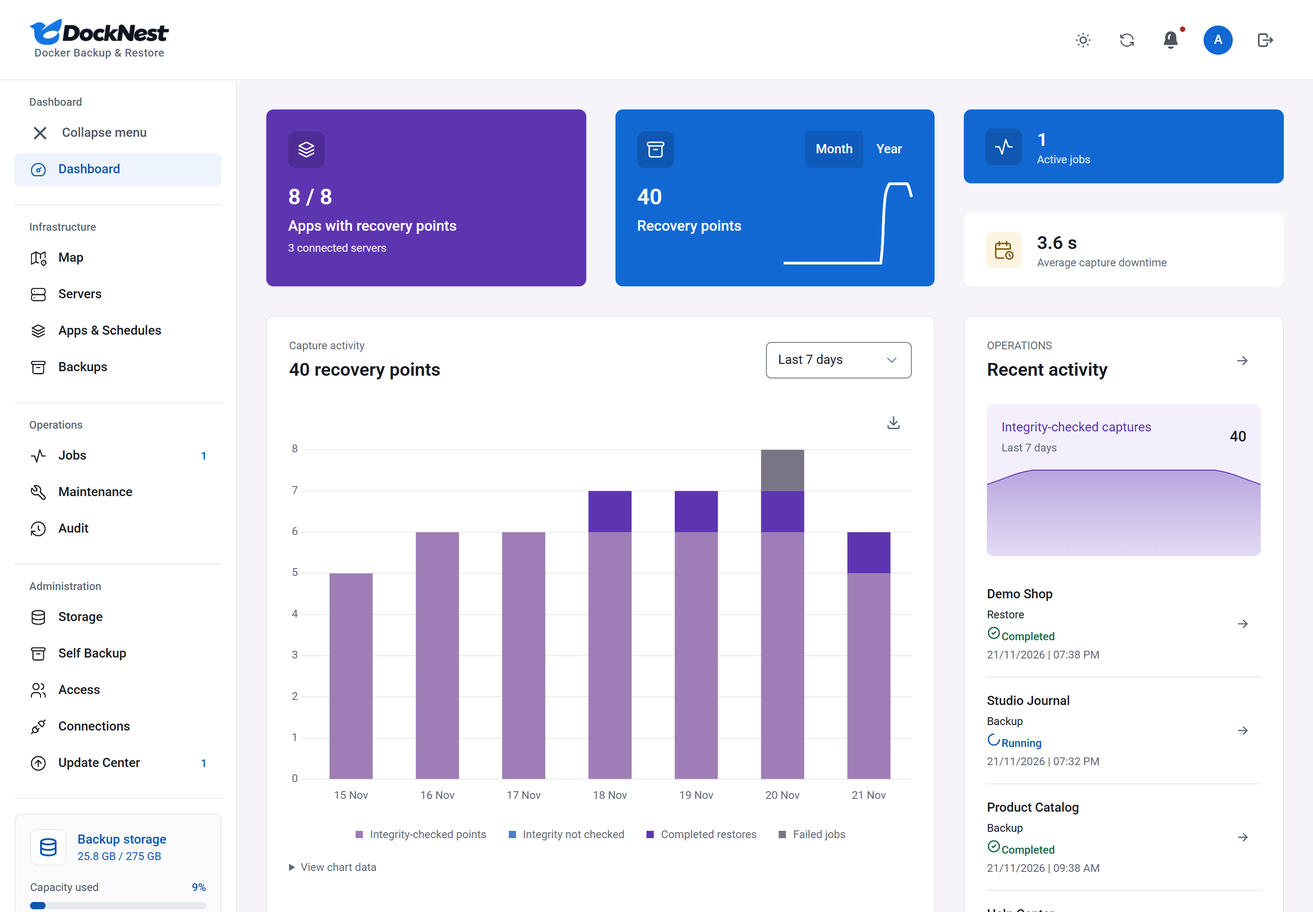
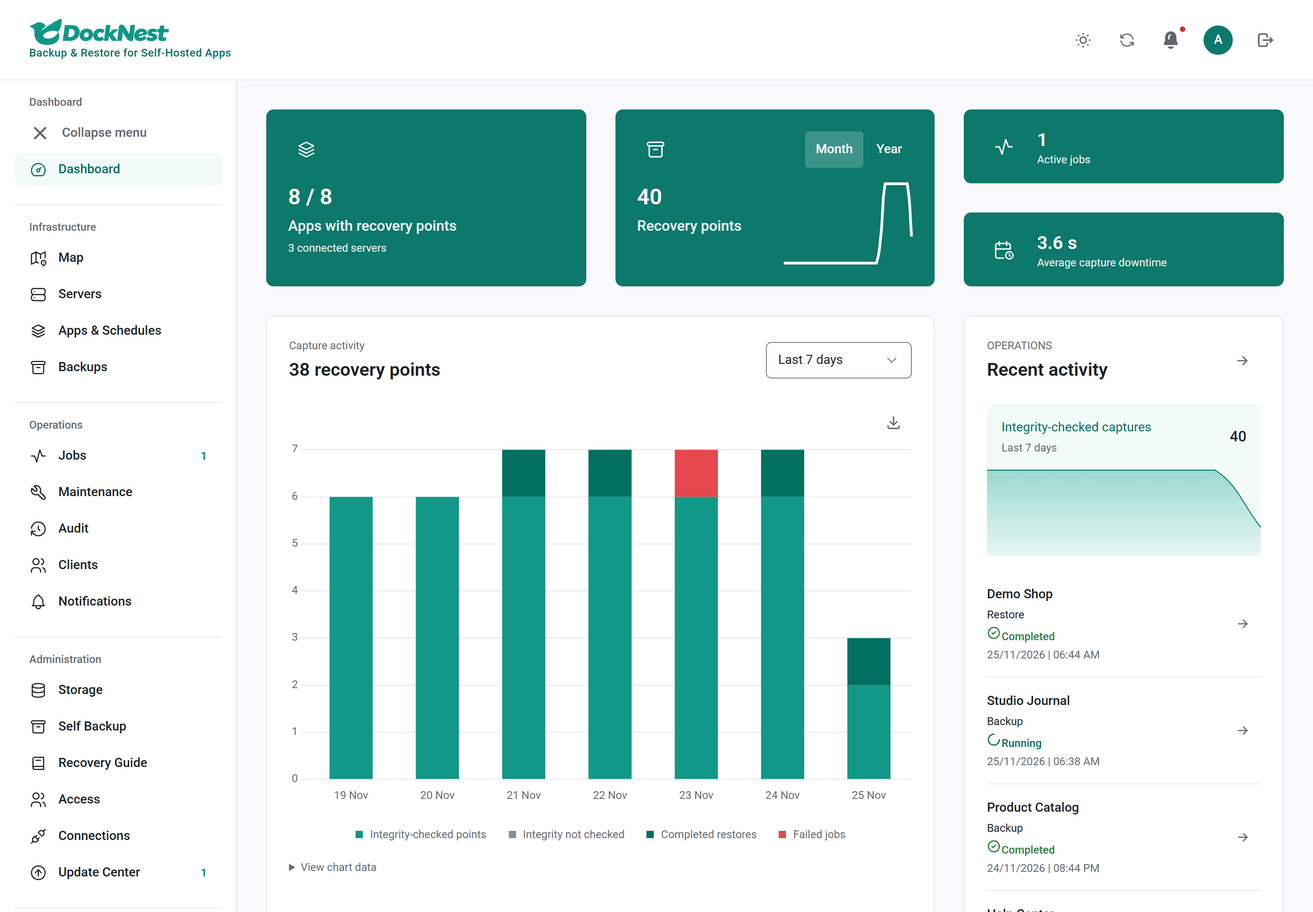
chore: prepare 3.0.0 (version, changelog, release notes, README, screenshots)

diff --git a/CHANGELOG.md b/CHANGELOG.md
@@ -2,114 +2,54 @@
 
 All notable changes to DockNest are documented here. The format follows [Keep a Changelog](https://keepachangelog.com/en/1.1.0/), and DockNest uses [Semantic Versioning](https://semver.org/spec/v2.0.0.html). [docs/upgrading.md](docs/upgrading.md) describes what stays stable within a major version and the deprecation policy. Detailed notes for each release live in [docs/releases](docs/releases).
 
-## [Unreleased]
+## [3.0.0] - Unreleased
 
-Draft for 3.0.0, not released yet. Upgrading: [docs/upgrading.md](docs/upgrading.md#upgrading-to-300).
+Upgrading from 2.16.x: [docs/upgrading.md](docs/upgrading.md#upgrading-to-300). Backups of Podman and rootless apps use backup format 3, which 2.16 cannot restore.
 
-### Fixed
+### New
 
-- Cloud drives: the Google Drive, OneDrive and Dropbox sign-in link now appears, drives can connect over HTTPS, the connected account is shown masked, and a certificate problem is reported as such instead of "could not be reached".
-- OneDrive: the list of drives after sign-in is no longer empty, so OneDrive can be connected from the dashboard. After a revoked sign-in, the first test now says OneDrive needs you to sign in again.
-- Cloud drives: the sign-in address from Microsoft and Dropbox (`localhost:53682`) is accepted, personal Microsoft account codes are accepted, Google Drive sign-in asks only for access to files DockNest creates, and the account name shows after Reconnect.
-- Cloud drives: the account name now shows on every drive (and fills in for existing ones after a Test). Reconnecting a Google Drive with a different Google app asks you to confirm first, because earlier backups would no longer be visible; a backup that Google no longer shows is reported as not visible, not as damaged.
-- Google Drive: the root folder is remembered, so tests and backups make fewer calls. A slow test no longer fails the page: it shows "Still checking" and finishes in the background. When Google limits the shared sign-in app, DockNest says so and recommends your own app ID.
+- Recovery time: how long each app took to come back in its newest passed restore test, on the dashboard, the Map and Restore tests. Existing tests already count.
+- Client reports: a Clients page; group apps per client and make a monthly PDF of backups, restore tests, recovery time, certificate, hardening grade and domain checks, downloaded or emailed to up to 3 people. Never shows server addresses, logins or paths. See [client reports](docs/client-reports.md).
+- Cloud drives as backup storage: Google Drive, OneDrive, Dropbox, WebDAV, SMB shares and a mounted local folder, with Reconnect and an alert when a sign-in expires. See [cloud drives](docs/cloud-drives.md).
+- NAS servers: TrueNAS SCALE, as root or a non-root SSH user with passwordless sudo, with a sealed helper container when the NAS has no Python. Unraid and Synology are early access under Settings (off by default); until then they connect as normal Linux servers with Docker. See [NAS servers](docs/nas-servers.md).
+- Podman and rootless Docker: servers list their engines, Discover groups apps by engine, and such apps can be backed up, restored and restore-tested in the same kind of engine. Not yet: systemd-managed (quadlet) apps, native databases, several containers in one restore, incremental backups and moves between engines.
+- Notification center: a bell and a Notifications page with folders, filters, Archive and toasts for new problems.
+- New look: slate neutrals and a teal accent, with an accent colour choice (Teal, Blue, Indigo, Orange, Pink) under Settings > Appearance. Apps (was Sites) and Self Backup are the new names; nothing to change.
+- Recovery Guide: numbered steps and exact commands to bring every app back on a new server, as a PDF (Hebrew included), with expected recovery time per app. A login-free copy is saved next to the recovery kit after every Self Backup.
+- Recovery kit: checked after every Self Backup and on demand (alert on failure); optional split so K of N trusted people can open it together.
+- Keys safe: finds app encryption keys (Laravel, n8n, Rails, authentik, Paperless-ngx, Outline, Gitea, Nextcloud, Vaultwarden and others) and checks they are inside the last backup. Key values never leave the server.
+- Backup coverage and linked apps: every container and volume on a server and whether an app backs it up, plus which apps depend on each other.
+- Domain checks: follow each domain through DNS, proxy (nginx, Nginx Proxy Manager, Caddy, Traefik), app and certificate; shown on the Map. Domains move with their app.
+- Restore check also lists cron jobs, timers, networks, volumes, secrets and certificates a restore on a new server would miss. See [restore check](docs/restore-check.md).
+- Redis, Valkey and MongoDB (6.0 to 8.0) apps are detected and backed up; online dumps for PostgreSQL, MySQL, MariaDB, Redis and Valkey (opt-in).
+- Portainer and Dockge stacks are found when adding an app; apps started with plain `docker run` get a Compose preview and a readable Compose file inside the backup.
+- Alerts: "Backup missed", "Configuration changed", "Client report failed" and a cloud-drive Reconnect alert.
+- Append-only SFTP storage is detected, and SFTP capacity fills in automatically.
+- Restore tests can read the backup copy on your second storage.
 
-### Added
+### Improved
 
-- New look: slate neutrals and a teal accent. Settings > Appearance has an accent colour choice (Teal by default, Blue, Indigo, Orange or Pink), saved per account in this browser. The logo, buttons, links and charts follow it. Switching accent or light/dark fades smoothly (about 0.2 s, colours only, instant with reduced motion). The dashboard tiles are solid accent cards. Status colours stay green, amber and red, and text on buttons meets contrast in every accent and in light and dark.
-- Unraid and Synology support are hidden until they can be tested on real hardware: such a server connects as a normal Linux server with Docker, with one plain info line. 3.0.0 NAS support is TrueNAS SCALE. Early-access "Unraid support" and "Synology support" switches (off by default, with a Beta tag) are under Settings; problem reports from those servers carry a "unraid" or "synology" tag.
-
-**Recovery**
-- Recovery time: DockNest now measures how long each app takes to come back, from its newest passed restore test (get the backup, restore data, start and check). Existing restore tests already count, so there is a number on day one. It shows under the last test on the dashboard ("Back in about 12 min, proven 3 days ago"), on the app panel in the Map with its three parts, and at the top of Restore tests with the recent tests. An old test is greyed and says "not recent"; after the backups grow a note says the number may be low.
-- Redis and Valkey: apps using them are detected and shown in the Databases list with what they keep (saved to disk or cache only). A cache-only server is no longer an error, and with online dumps on, a server that saves to disk keeps running while a consistent snapshot is taken and restored.
-- Recovery Guide: plain, numbered steps to bring every app back on a new server, made from what DockNest knows now, with the exact commands for each app. Download it as a PDF (Hebrew included); addresses and storage logins are added only if you choose, and logins need you to confirm again. A copy without any login is saved next to the recovery kit after every Self Backup, and an optional alert tells you when the guide is out of date.
-- Client reports: a Clients page in the menu. Group apps into clients and make a monthly PDF per client, on demand or emailed on day 1 to up to 3 recipients through your email Connection. It shows backups, restore tests, recovery time, certificate, hardening grade and domain checks, and never a server address, login or path. A failed send raises the new alert "Client report failed". See [client reports](docs/client-reports.md).
-- After every Self Backup, and when you ask, DockNest opens the newest recovery kit with the passphrase it keeps and checks that it is complete and holds this DockNest's key. If the check fails, you get an alert.
-- Optional emergency kit split: K of N trusted people can open your kit together with their 33-word parts, using an offline tool, while fewer of them learn nothing. Off by default; one passphrase stays the default. Every split alerts all your channels. Splitting again, or going back to one passphrase, asks for a new recovery passphrase, so earlier holders cannot open new kits.
-- Keys safe: DockNest finds the encryption keys of apps such as Laravel, n8n, Rails, authentik, Paperless-ngx, Outline, Gitea, Nextcloud and Vaultwarden, and checks that each key is inside the last backup. A key kept in a file the app does not back up is shown as missing, with the file. Key values never leave the server.
-- Restore tests check that the restored app has the same keys as the backup.
-- Check readiness now also lists what a restore on a new server would miss: cron jobs and systemd timers that use the app's folders or containers, Docker networks and volumes the app does not create itself, Compose secrets, configs and environment files outside its folder, and its HTTPS certificates. Commands and values from these files are never shown. You can ignore a finding or keep a note with it. See [restore check](docs/restore-check.md).
-
-**Apps and servers**
-- Podman and rootless Docker groundwork: the server helper now has one place that decides how DockNest talks to the container engine, with strict checks on users, ID ranges and systemd units. Nothing changes for existing apps, which keep using rootful Docker; Podman and rootless apps follow in later 3.0.0 changes.
-- NAS servers (backend): connect a Unraid or TrueNAS system with a non-root SSH user that has passwordless sudo, or with root. Other servers still need root. The helper works in the NAS's persistent working folder and reads free space there, not from memory storage. Connect answers say which identity is used and the one fix when sudo asks for a password. Release note: Connecting a NAS no longer needs root SSH.
-- Podman and rootless Docker discovery: Test connection now lists the container engines a server runs (Docker, Podman, and rootless Docker or Podman for users with their own container storage), and Discover tags each container with its engine. An app can be saved with its engine only when the server reported it. Backups and restores of such apps are refused with a plain message until they arrive in a later 3.0.0 change; existing apps are unchanged.
-- Podman and rootless Docker backups: an app that runs in Podman or rootless Docker can be backed up and restored into the same kind of engine, as a new isolated copy. The backup records the container engine and the user ID ranges, and a restore for another user translates every file owner, refusing the whole restore if one cannot be mapped. A backup of such an app cannot be opened by older releases. Not yet supported: apps managed by systemd units (quadlets), native database engines, several containers in one restore, incremental backups, restore tests and moves.
-- Restore tests for Podman and rootless Docker apps: the test runs in the same kind of engine, as one isolated container with the usual memory and CPU limits, and only on a server where those limits can be set for that user. The copy and its data folder are always removed, also by the safety reaper and when a restore fails. Not yet: internet tests, apps with several containers, the internal web check, and a custom seccomp profile on rootless.
-- Podman and rootless Docker in the app: Discover & add an app groups what it finds by engine, says "One app, one engine" when a Compose project is split across engines, and keeps the engine of the app you save. Apps show an Engine row, restore tests explain in one sentence why a server cannot test them, Self-heal says it is not available for them yet, and a server lists the engines it runs (including a server with Podman and no Docker).
-- Podman and rootless Docker moves and cleanup: the move check now reads the rules for these apps (Docker and Podman cannot be moved into each other, the target must run the engine, a rootless user cannot use ports below the system limit, a missing linger setting is flagged, file owners are translated) and still blocks the move itself for now. Server cleanup lists DockNest's restore copies in these engines as kept and offers the data folder of a failed rootless restore for removal.
-- Podman and rootless Docker image copies: backups and restores of these apps move image archives through the engine's own input and output, so a rootless user's engine never needs access to DockNest's private folders.
-- NAS apps (backend): on Unraid, Synology and TrueNAS, scanning a server now tells which apps the NAS itself manages (Unraid templates, Container Manager projects, TrueNAS apps), read-only. An Unraid app's template is saved with its backup and can be put back, never over a different file. TrueNAS before 24.10 is refused with a clear message. Release note: DockNest recognises apps managed by Unraid, Synology and TrueNAS.
-- Unraid restore (backend): after an app is restored, its saved template is put back so the Unraid Docker page keeps managing it, without ever replacing a different file. Compose Manager projects are listed by name. TrueNAS version files in the common formats are recognised. Release note: Restoring an Unraid app also restores its Docker template.
-- NAS helper runtime (backend): a NAS with no usable Python can now run DockNest's helper in a small container image that ships inside the DockNest image. DockNest checks its checksum, loads it over SSH, and runs it only by its pinned ID with no network and only the folders the call needs. Release note: NAS systems without Python no longer need Python installed to connect.
-- NAS helper runtime hardening: folders are checked where they point and never follow a link into a system folder, the image is built in a job with no publish rights and verified again before release, and its package versions are pinned. Release note: NAS helper runtime checks are stricter.
-- NAS backups, restores and restore tests now work for a sudo user: packages are moved through the helper under sudo instead of SFTP, and the root-only staging folders are not opened up. Release note: Backups, restores and restore tests work on a NAS with a sudo user.
-- NAS screens: the server card and Map panel show the NAS name and a readiness list (helper runtime, staging folder, Docker, key warning with its fix). Discover groups apps by the manager the NAS uses, with the Unraid WebUI shown as text. The connect wizard explains Unraid, Synology and TrueNAS, accepts a passwordless-sudo user and, without Python, a pasted host key fingerprint. Release note: Unraid, Synology and TrueNAS systems get their own screens and setup help.
-- Recovery Guide: a new column, Expected time to recover, shows how long each app took in its newest passed restore test. Release note: The Recovery Guide now says how long each app should take to restore.
-- Backup coverage on the Apps page and the Map: every container and volume on a server, and whether an app backs it up, its first backup is pending, or nothing does. Add an app for what is missing in one click, or skip what you leave out on purpose, with a note. It reads Docker only when you open it or press Scan again.
-- Linked apps: scanning a server now finds which apps depend on each other (a shared database, network or volume, or a container linked to another app's), and which containers they use that no app backs up. Read-only; nothing is changed.
-- Domain checks: DockNest follows each domain of your apps through DNS, the proxy (nginx, Nginx Proxy Manager, Caddy or Traefik), the app and its certificate, and says which step is broken and why. Checks run when you ask and after scans, readiness checks and backups, never on a timer. See [domains](docs/domains.md).
-- A move preview lists every domain that stops working until DNS points to the new server, and separately the domains another server's proxy sends to the app.
-- Domains on the Map: a Domains column shows where each domain really points, with the broken step and what to do about it. Each app panel lists its domains. Checks run only when you ask.
-- Adding an app started with plain `docker run` shows how DockNest will recreate it, as a read-only Compose preview, and suggests containers that share a network as one app.
-- A backup of an app started with plain `docker run` now also holds a readable Compose file and env files that recreate it with the same settings, so you can bring it back without DockNest.
-- Back up MongoDB apps with a verified clean stop (MongoDB 6.0, 7.0 and 8.0, standalone servers).
-- Adding an app finds stacks that Portainer or Dockge manage, fills in their Compose file from the manager's stacks folder and shows the manager on the app card. DockNest only reads it and never changes Portainer or Dockge.
-- NAS support, first part (no screens yet): DockNest recognizes Unraid, Synology and TrueNAS servers, can connect as a non-root user with passwordless sudo on them, and can run its helper in a sealed container when the NAS has no Python. Servers that are not NAS systems are unchanged. See [NAS servers](docs/nas-servers.md).
-
-**Storage and backups**
-- Cloud drives as backup storage: connect Google Drive, OneDrive, Dropbox, WebDAV (Nextcloud, ownCloud) and SMB shares through a bundled, checksum-pinned rclone. Sign in by pasting the address your browser ends on, or a token from rclone on your own computer; tokens are sealed with the master key and never shown. When a drive asks you to sign in again, backups to it stop with a plain message, one alert is sent, and Reconnect replaces only the token. Not append-only; deleted files go to the provider's trash. See [cloud drives](docs/cloud-drives.md).
-- Online database dumps (opt-in per app, a switch under Advanced backup settings; each database says whether it can stay running): PostgreSQL, MySQL and MariaDB keep running while a consistent dump is taken, and a restore loads it into a fresh database. Anything a dump cannot cover safely keeps the stopped copy, with the reason. See [online dumps](docs/online-dumps.md).
-- Append-only SFTP storage: DockNest detects an SFTP account that refuses deletes and overwrites, keeps adding backups there, and leaves old ones for the storage server to expire. While the server enforces it, ransomware that reaches DockNest cannot delete or overwrite stored backups. See [storage backends](docs/storage-backends.md#append-only-sftp-since-300).
-- Adding an SFTP storage destination fills the Capacity field with the size the server reports (editable, never blocks adding). See [storage backends](docs/storage-backends.md).
-
-**Sign-in**
-- Sign-in: password dots and two-factor code digits animate as you type; the focus border is gone. Off under reduced motion.
-
-**Alerts**
-- Notification center: a bell with an unread count, the newest notifications and your running jobs, and a Notifications page under Operations with folders (All, Needs action, Backups & restores, Storage, System, Archived), filters and one-click Mark read, Archive and Open. It lists the same events your alert channels get, plus restores, restore tests that passed and recovery times that went old, for every administrator, kept for 90 days. A repeat of the same event counts up instead of piling up. Short messages now appear as toasts: errors stay until you close them, success clears itself after 5 seconds.
-- Missed backup alert: when a scheduled backup could not start on time (DockNest was down, or the app stayed busy), your alert lines for failed backups get one "Backup missed" message. The run still happens as soon as it can. See [alerts](docs/alerts.md#missed-scheduled-backups).
-- A new alert, "Configuration changed", tells you once when an app's Compose or env files change outside Safe Edit. Administrators can mark the current files as known-good.
-- Keys safe on screen: a padlock on each app in the Map and a Keys line on each app card (found in the last backup, missing, or changed), a Keys section in the app's Map panel with each key's name, place and short fingerprint (never the key), "Add file" for a key in a file the app does not back up, and "Mark as known-good" for administrators after a sign-in check. Self Backup shows a Recovery kit check card with its last result, and a move review lists owner, file-mode and target-folder findings as separate notes.
-- The recovery kit check on Self Backup says which kit it opened ("Kit from 18 Nov 03:10") whenever it found one.
-- Before a move, DockNest checks the new server for owner and permission problems: remapped Docker user IDs, files whose setuid, ACL or extended attributes the new file system would drop, and folders on read-only, noexec, nosuid or root-squashed mounts. A check that cannot run stops the move with a plain message instead of passing quietly. What the checks find about owners and permissions is a warning: you tick "I checked these" before the move can start.
-
-### Changed
-- Sign-in hardening: a new system password (first setup, or when you change it) must be 12 to 128 characters instead of 4 to 16. Existing passwords keep working; nobody is locked out. After 20 failed sign-ins from anyone within 15 minutes, sign-in pauses for a short, growing time (30 seconds up to 15 minutes) with a plain message, then continues by itself. Release note: New system passwords need 12 to 128 characters, and repeated failed sign-ins now pause sign-in briefly.
-
-- Secondary actions everywhere are quiet text links; each screen and dialog has one clear main button.
-- Map: lines curve smoothly between connection points, like a workflow canvas.
-- The app and server details panels on the Map have a new layout: a status line under the name, one label and value list, thin lines between sections, and Self-heal, Edit history and Add an app found here together under Tools. Move to and Edit are plain underlined links; Open site stays the one filled button.
-- Secondary actions in the Map panels, Keys, Recovery Guide and domain checks are plain underlined links instead of outlined buttons; main actions stay filled buttons.
-- A new look across the dashboard: consistent dialogs, tabs, notices, step-by-step flows, fields and buttons. Sign-in animates each password dot and 2FA digit as you type, with no focus border on those inputs. Off under reduced motion.
-- Cleaner lists: open details from the row, and find the extra actions in one menu on the Map, Apps, Servers, Storage and Backups.
-- DockNest's own backup is now called **Self Backup** in the menu, page, alerts and docs. Nothing changes in how it works, and your existing settings and backups are untouched.
-- Sites are now called Apps, because DockNest backs up any Docker app or stack, not only websites. The menu entry is now Apps & schedules. There is nothing to do: your data, links and bookmarks keep working.
-- Adding an app hides containers that are already backed up on that server, and DockNest refuses a duplicate. Moving an app is refused too when an app on the new server already backs up one of its containers.
-- A move no longer stops when an app's configuration files live outside the app folders, such as `/etc/cron.d`. It leaves them out, names them in the preview to put back by hand, and the backup's restore guide says where each one goes. A move still never writes into `/etc`.
+- One main button per screen, quiet text links for secondary actions, one actions menu per list row, consistent dialogs, tabs and fields.
+- The Map: curved lines, a domain tree, drag anywhere with positions remembered, Fit to screen keeps names readable, new details panels, a Keys padlock, and the storage an app really uses.
+- Adding an app hides containers that are already backed up and refuses duplicates.
+- A move no longer stops over configuration files outside the app folders; it names them to put back by hand. It also checks for owner and permission problems on the new server and lists domains that need new DNS.
+- A backup stopped by a changing folder names that folder.
+- Moving a `docker run` app keeps its hostname, limits, DNS, log settings and other options.
+- Google Drive makes fewer calls, and a slow test shows "Still checking" instead of failing the page.
 
 ### Fixed
 
-- A Podman or rootless app whose user has no container runtime folder (linger off, user logged out) now gets a plain message with the fix, instead of a bare engine error.
-- A server where Docker is installed but not running no longer fails a scan: the app list still shows the other engines, the scan names the stopped Docker engine, and the readiness check says "Docker is installed but not running". The TrueNAS-before-24.10 refusal no longer repeats its last sentence. Release note: A stopped Docker is reported plainly instead of failing the scan.
-- The Recovery Guide shows the whole install command instead of cutting it off.
-- The Map no longer leaves "Change cancelled" under the canvas; status messages disappear after a few seconds.
-- The move preview dialog no longer has an empty gap above its buttons.
-- Fit to screen on the Map keeps names readable and lets you pan a big map instead of shrinking it.
-- The Map shows the backup storage an app really uses: the app's own main destination, not always the default one.
-- The Recovery Guide says whether a restore test read the main backup or the off-site copy.
-- Moving an app started with plain `docker run` now keeps its hostname, TTY, memory, CPU and process limits, ulimits, log settings, DNS, shm size, sysctls, extra groups, `-P` and stop timeout. Settings DockNest cannot recreate (such as devices or GPUs) are named in the move preview.
-- A backup that stops because a folder changed while the app was paused now names that folder (for example a host timer that writes into it), instead of a general message.
-- On the Map, nodes you drag now go anywhere, also further left and up, instead of stopping at an invisible edge. Where you put them is kept the next time you open the Map; Tidy up arranges everything again.
-- Safe Edit: an invalid field keeps its red border when you hover it.
-- The Map shows `example.com` and `www.example.com` as one domain, with the www name inside it and one status for both.
-- On the Map, a subdomain hangs under its domain and only the domain connects to the server (subdomain, domain, server). A subdomain that runs on another server connects to its own server and says "part of" its domain.
-- Lines from domains end in one input dot on the server, like the output dot on its right, instead of an arrowhead each.
-- The Map opens whole and centred instead of at a cut-off corner.
-- The "+" next to an app on the Map opens the Add to the map panel instead of doing nothing.
-- A domain moves with its app on the Map: drag its dot onto another server to start the app's move, see it dashed at the new server while the move runs, and find it there afterwards. A domain with no app, or used by several apps, says so and moves nothing.
-- A static website that nginx serves from a folder is shown as a note with an "Add as app" link, not as a failed proxy.
-- The Recovery Guide PDF is denser (no half-empty pages), carries the DockNest mark and a credit with working links to GitHub and trydocknest.com.
+- Cloud drives: sign-in links appear, OneDrive lists its drives, the Microsoft and Dropbox `localhost:53682` address and personal Microsoft accounts are accepted, the account name shows (masked), and certificate problems are reported as such.
+- Reconnecting Google Drive with a different Google app asks first; a backup Google no longer shows is reported as not visible, not damaged.
+- A server where Docker is installed but stopped no longer fails a scan; Podman users without a runtime folder get a plain fix.
+- The Recovery Guide shows the whole install command and is denser; the Map no longer leaves stale messages; the move preview has no empty gap.
+- A static site that nginx serves from a folder shows an "Add as app" link instead of a failed proxy.
+
+### Security
+
+- A new system password must be 12 to 128 characters (existing passwords keep working). After 20 failed sign-ins from anyone within 15 minutes, sign-in pauses briefly.
+- NAS connections no longer need root SSH; the helper runtime image is pinned, checksum-verified and run with no network. Cloud-drive tools are checksum-pinned.
+- Google Drive sign-in asks only for access to files DockNest creates.
 
 ## [2.16.4] - 2026-11-14
 
@@ -677,7 +617,7 @@ Pre-release of 2.1.0, tagged `v2.1.0-rc.1`. The GitHub release for it has been r
 
 See [docs/releases/2026-10-17-v2.0.md](docs/releases/2026-10-17-v2.0.md) for the full notes.
 
-[Unreleased]: https://github.com/DahanItamar/DockNest/compare/v2.1.0...HEAD
+[3.0.0]: https://github.com/DahanItamar/DockNest/compare/v2.16.4...HEAD
 [2.1.0]: https://github.com/DahanItamar/DockNest/compare/v2.0.0...v2.1.0
 [2.1.0-rc.1]: https://github.com/DahanItamar/DockNest/compare/v2.0.0...v2.1.0-rc.1
 [2.0.0]: https://github.com/DahanItamar/DockNest/releases/tag/v2.0.0

diff --git a/README.md b/README.md
@@ -26,7 +26,7 @@ DockNest is a self-hosted web app. It connects to your Linux servers over SSH, b
 - Discovers the Docker projects and static nginx sites on each server you connect.
 - Backs up each app on its own schedule to encrypted SFTP or S3-compatible storage. Connect storage starts with a provider (own server or NAS, Hetzner, rsync.net, MinIO, Amazon S3, Cloudflare R2, Backblaze B2, Wasabi or another) and fills in its defaults.
 - Verifies recovery points and restores them to a separate copy. The live app is not overwritten.
-- New in 3.0.0: a notification center; measured recovery time per app; monthly client reports as a PDF, downloaded or emailed; cloud drives as storage (Google Drive, OneDrive, Dropbox, WebDAV, SMB, a local folder); NAS servers (TrueNAS SCALE; Unraid and Synology as early access in Settings); Podman and rootless Docker apps; a new look with a choice of accent colour (Settings > Appearance), with a smooth fade when you change it or switch light and dark.
+- New in 3.0.0: a notification center; measured recovery time per app; monthly client reports as a PDF, downloaded or emailed; cloud drives as storage (Google Drive, OneDrive, Dropbox, WebDAV, SMB, a local folder); NAS servers (TrueNAS SCALE; Unraid and Synology as early access in Settings); Podman and rootless Docker apps; security hardening (12 to 128 character system passwords, sign-in pause after repeated failures, checksum-pinned helper images); a new look with a choice of accent colour (Settings > Appearance), with a smooth fade when you change it or switch light and dark.
 - Shows live progress, the steps of each job and the reason when one fails.
 
 > [!NOTE]
@@ -223,9 +223,10 @@ scripts/upgrade.sh --dry-run    # show the plan only
 
 With the host updater installed, a command-line upgrade that cannot register the new version itself (for example a checkout not owned by root) ends by printing the `sudo scripts/install-updater.sh --repair` command to run.
 
-Upgrading from 2.16.x to 3.0.0 (the 3.0.0 development line) adds only compatible database tables (migration 27), so rolling back to 2.16.x works without restoring a snapshot; see [Upgrading to 3.0.0](docs/upgrading.md#upgrading-to-300). Worth knowing before you update:
+Upgrading from 2.16.x to 3.0.0 adds only compatible database tables (migrations 19 to 27), so rolling back to 2.16.x works without restoring a snapshot; see [Upgrading to 3.0.0](docs/upgrading.md#upgrading-to-300). Worth knowing before you update:
 
-- Backups of Podman and rootless apps use backup format 3 (`formatVersion: 3`); 2.16 and older cannot restore them. Docker apps keep the older format.
+- 3.0.0 backups of Podman and rootless apps use backup format 3 (`formatVersion: 3`); 2.16 and older cannot read or restore them. Docker apps keep the older format.
+- New system passwords must be 12 to 128 characters; existing passwords keep working.
 - Cloud drives use a bundled rclone that exists for `linux/amd64` only.
 - A NAS (TrueNAS; Unraid and Synology when enabled) connects as root, or as a non-root SSH user with passwordless sudo.
 - Moving an app between container engines is not supported yet.

diff --git a/docs/releases/2026-11-24-v3.0.0.md b/docs/releases/2026-11-24-v3.0.0.md
@@ -1,7 +1,7 @@
 ---
-security: false
-features: 5
-improvements: 2
+security: true
+features: 6
+improvements: 3
 fixes: 0
 ---
 # DockNest 3.0.0
@@ -15,13 +15,19 @@ Know how long a restore takes, send clients a monthly proof page, keep backups o
 - **Cloud drives.** Keep backups on Google Drive, OneDrive, Dropbox, WebDAV, an SMB share or a mounted local folder, with Reconnect when a sign-in expires.
 - **NAS servers.** Connect TrueNAS SCALE, with root or a non-root user that has passwordless sudo. Unraid and Synology are early access: turn them on under Settings. Until then they connect as normal Linux servers with Docker.
 - **Podman and rootless Docker.** Apps on Podman or rootless Docker are found, backed up and restored. Restore tests run in the same engine on servers that can limit memory for that user. Not yet: apps managed by systemd units, native databases, several containers in one restore, incremental backups and moves.
+- **Notification center.** A bell and a Notifications page for backups, restores, storage and system events, with filters and Archive.
 
 ## Better
 
 - A new look across the dashboard, with one main button per screen.
+- Choose an accent colour under Settings > Appearance (Teal by default).
 - Keys safe, domain checks, backup coverage and linked apps help you see what a restore would miss.
+
+## Security
+
+- New system passwords must be 12 to 128 characters, and sign-in pauses after repeated failures. Existing passwords keep working.
 
 ## Before you update
 
-- Backups of Podman and rootless apps cannot be restored by DockNest 2.16 or older.
+- 3.0.0 backups of Podman and rootless apps (format 3) cannot be read or restored by DockNest 2.16 or older.
 - Cloud drives need an amd64 server. Moving an app between container engines is not supported yet.
